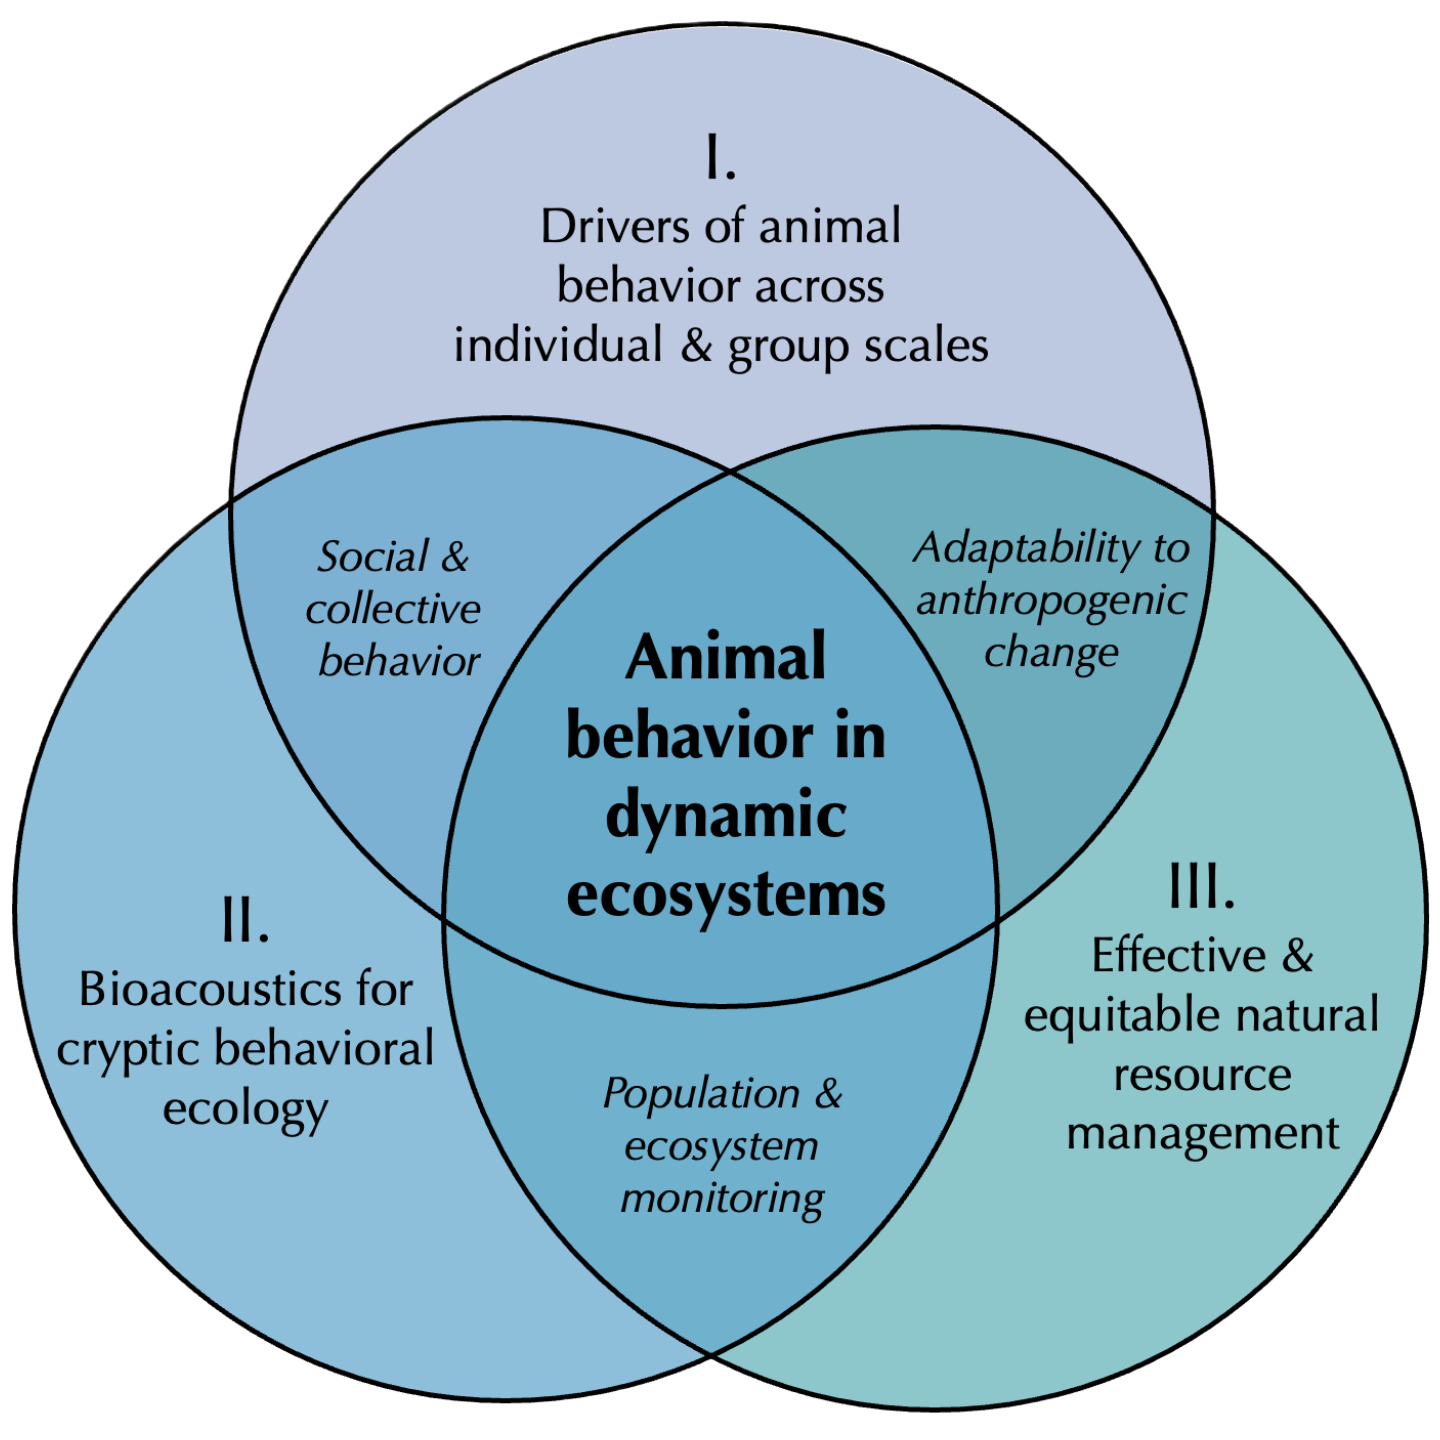
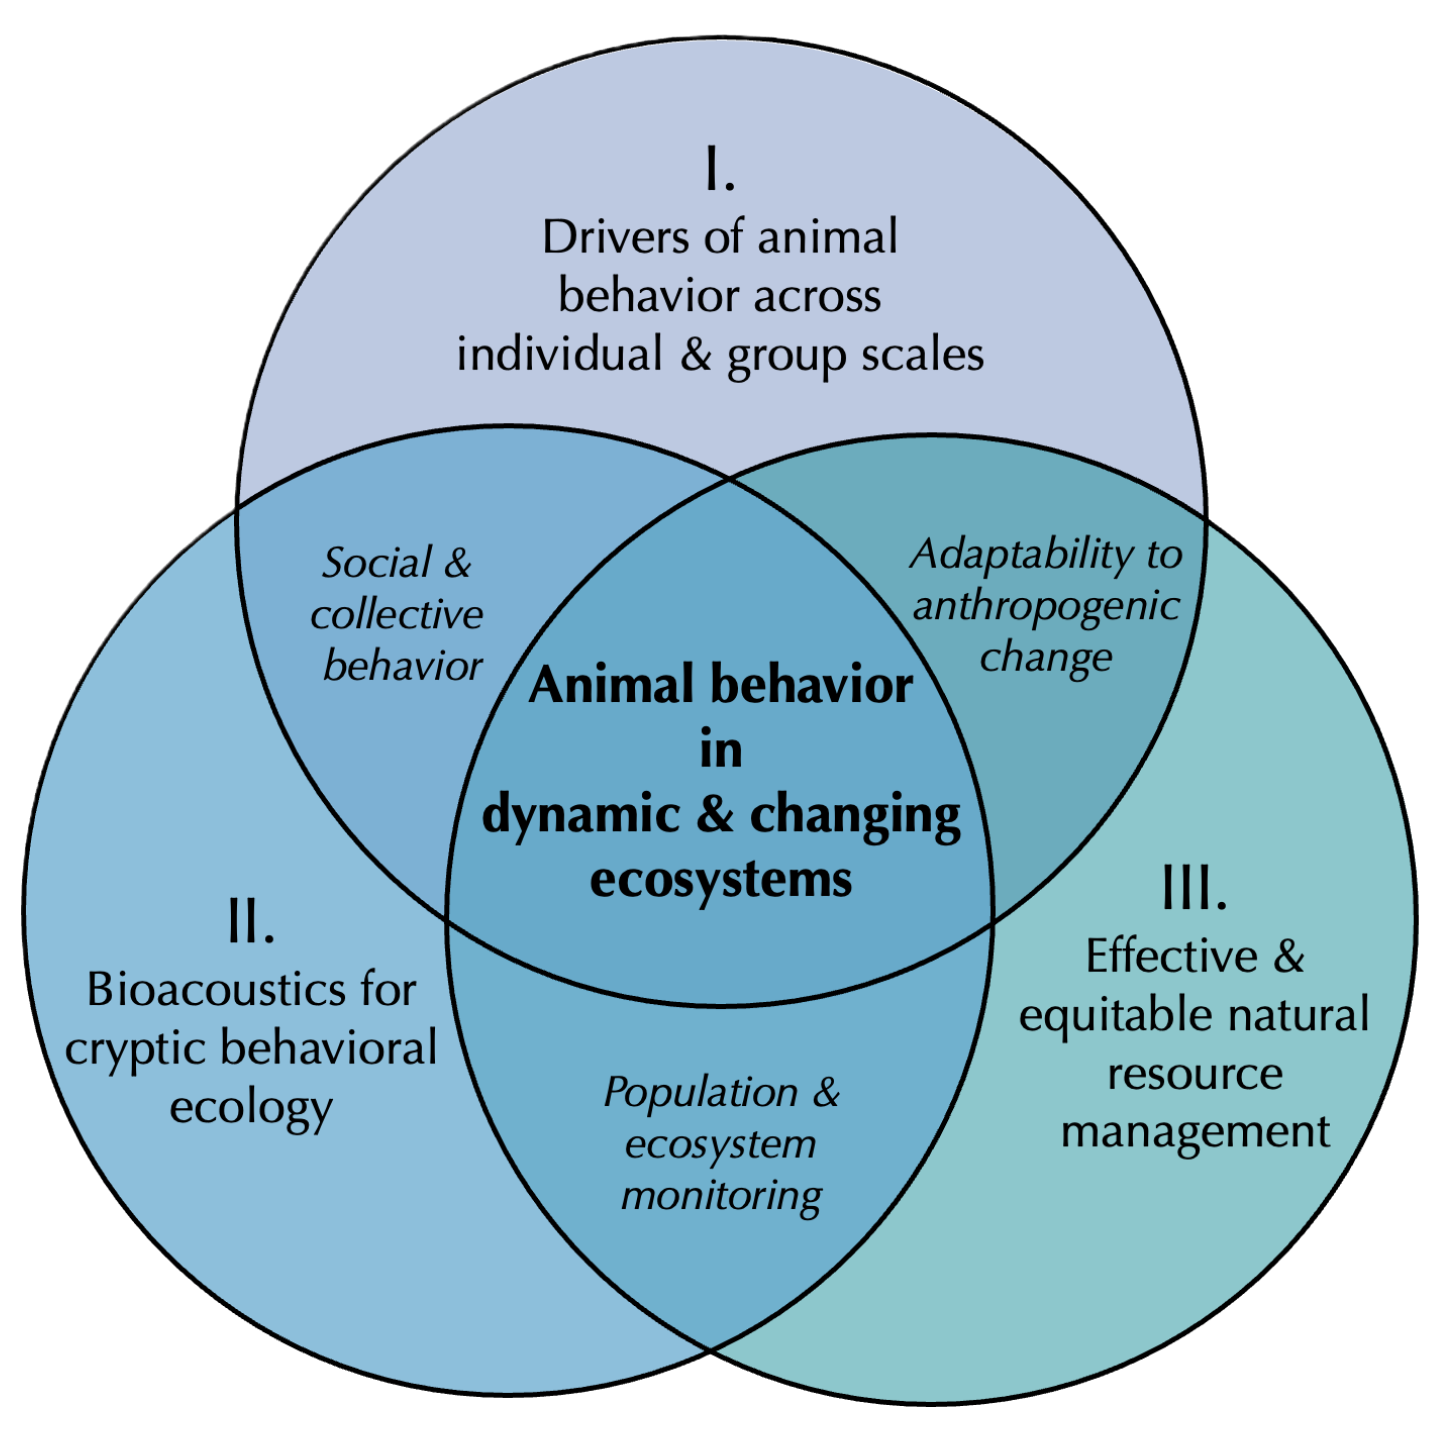
various research changes

diff --git a/content/_index.md b/content/_index.md
@@ -1,8 +1,8 @@
 ---
-action_label: Learn more &rarr;
+action_label: 
 action_link: research/
 action_type: text
-description:  \- What sources of information do animal individuals and groups rely on to make critical behavioral decisions (e.g., when/where to forage, migrate, and reproduce) in dynamic and changing ecosystems? <br/>- How can we measure individual and group-level behavior in cryptic species and difficult-to-observe ecosystems? <br/>- And in what ways can improved understanding and observation of animal behaviors aid in more effective and equitable ecosystem management by humans? <br/><br/> I am a postdoctoral fellow at the [Monterey Bay Aquarium Research Institute (MBARI)](https://www.mbari.org/), where I explore these questions and their interactions, often combining approaches from behavioral ecology, bioacoustics, oceanography, and conservation science. <br/><br/> Previously, I completed a PhD in [Biology at Stanford University](https://hopkinsmarinestation.stanford.edu/) (2022), BS and MS degrees in [Environmental Engineering at Northwestern University](https://www.mccormick.northwestern.edu/civil-environmental/research/areas/ecosystems.html) (2015), and held positions at the [Woods Hole Oceanographic Institution](https://www.whoi.edu/) and the [Natural Resources Defense Council](https://www.nrdc.org/).
+description:  I am a postdoctoral fellow at the [Monterey Bay Aquarium Research Institute (MBARI)](https://www.mbari.org/), where I explore ***animal behavior in dynamic and changing ecosystems***. I address both theoretical and applied questions in this area by combining approaches from behavioral ecology, bioacoustics, oceanography, and conservation science. <br/><br/> Previously, I completed a PhD in [Biology at Stanford University](https://hopkinsmarinestation.stanford.edu/) (2022), BS and MS degrees in [Environmental Engineering at Northwestern University](https://www.mccormick.northwestern.edu/civil-environmental/research/areas/ecosystems.html) (2015), and held positions at the [Woods Hole Oceanographic Institution](https://www.whoi.edu/) and the [Natural Resources Defense Council](https://www.nrdc.org/).<br/><br/><br/><br/><br/><br/><br/><br/><br/><br/><br/><br/>
 
 image_left: true
 images:

diff --git a/content/research.md b/content/research.md
@@ -9,7 +9,7 @@ sidebar:
 
 ![diagram](../img/conceptual_diagram_nobg.png)
 
-### I. Linking individual and group-level behavior in dynamic and changing ecosystems
+### I. Drivers of animal behavior across individual & group scales
 ![blue whale](../img/tag1.png)
 <sup>*A blue whale with a bio-logging tag attached to record its vocalizations, foraging behavior, and movements. In combination with passive acoustic monitoring approaches (see below), this can be a powerful tool for understanding the foraging and migration strategies of blue whale individuals and groups. Photo taken under NMFS Permit 16111.*</sup>
 
@@ -25,7 +25,7 @@ Ryan, JP, Benoit-Bird, K, **Oestreich, WK**, et al. Wind dance of the ocean gian
 
 <br/>
 
-### II. Bioacoustics as a tool for behavioral ecology in cryptic species and difficult-to-observe ecosystems
+### II. Bioacoustics for cryptic behavioral ecology
 ![song](../img/bm_bp_song.png)
 <sup>*A visual representation (spectrogram) of ~30 minutes of audio recording from [MBARI's MARS hydrophone](https://www.mbari.org/soundscape-listening-room/), showing overlapping blue and fin whale songs. These songs encode remarkable behavioral information, making their detection useful to whales, researchers, and managers of the ecosystems these animals inhabit.*</sup>
 
@@ -41,7 +41,7 @@ Cade, DE, Fahlbusch, JA, **Oestreich, WK**, Ryan, J, Calambokidis, J, Findlay, K
 
 <br/>
 
-### III. Equitable and effective management of dynamic ecosystems for wildlife and human communities
+### III. Effective & equitable natural resource management
 ![SB Island](../img/Musky.jpg)
 <sup>*The Southern California Bight, photographed from Santa Barbara Island. This ocean area, adjacent to the largest port on the U.S. West Coast, supports a remarkable abundance and diversity of both wildlife populations and human uses of marine ecosystems.*</sup>
 
